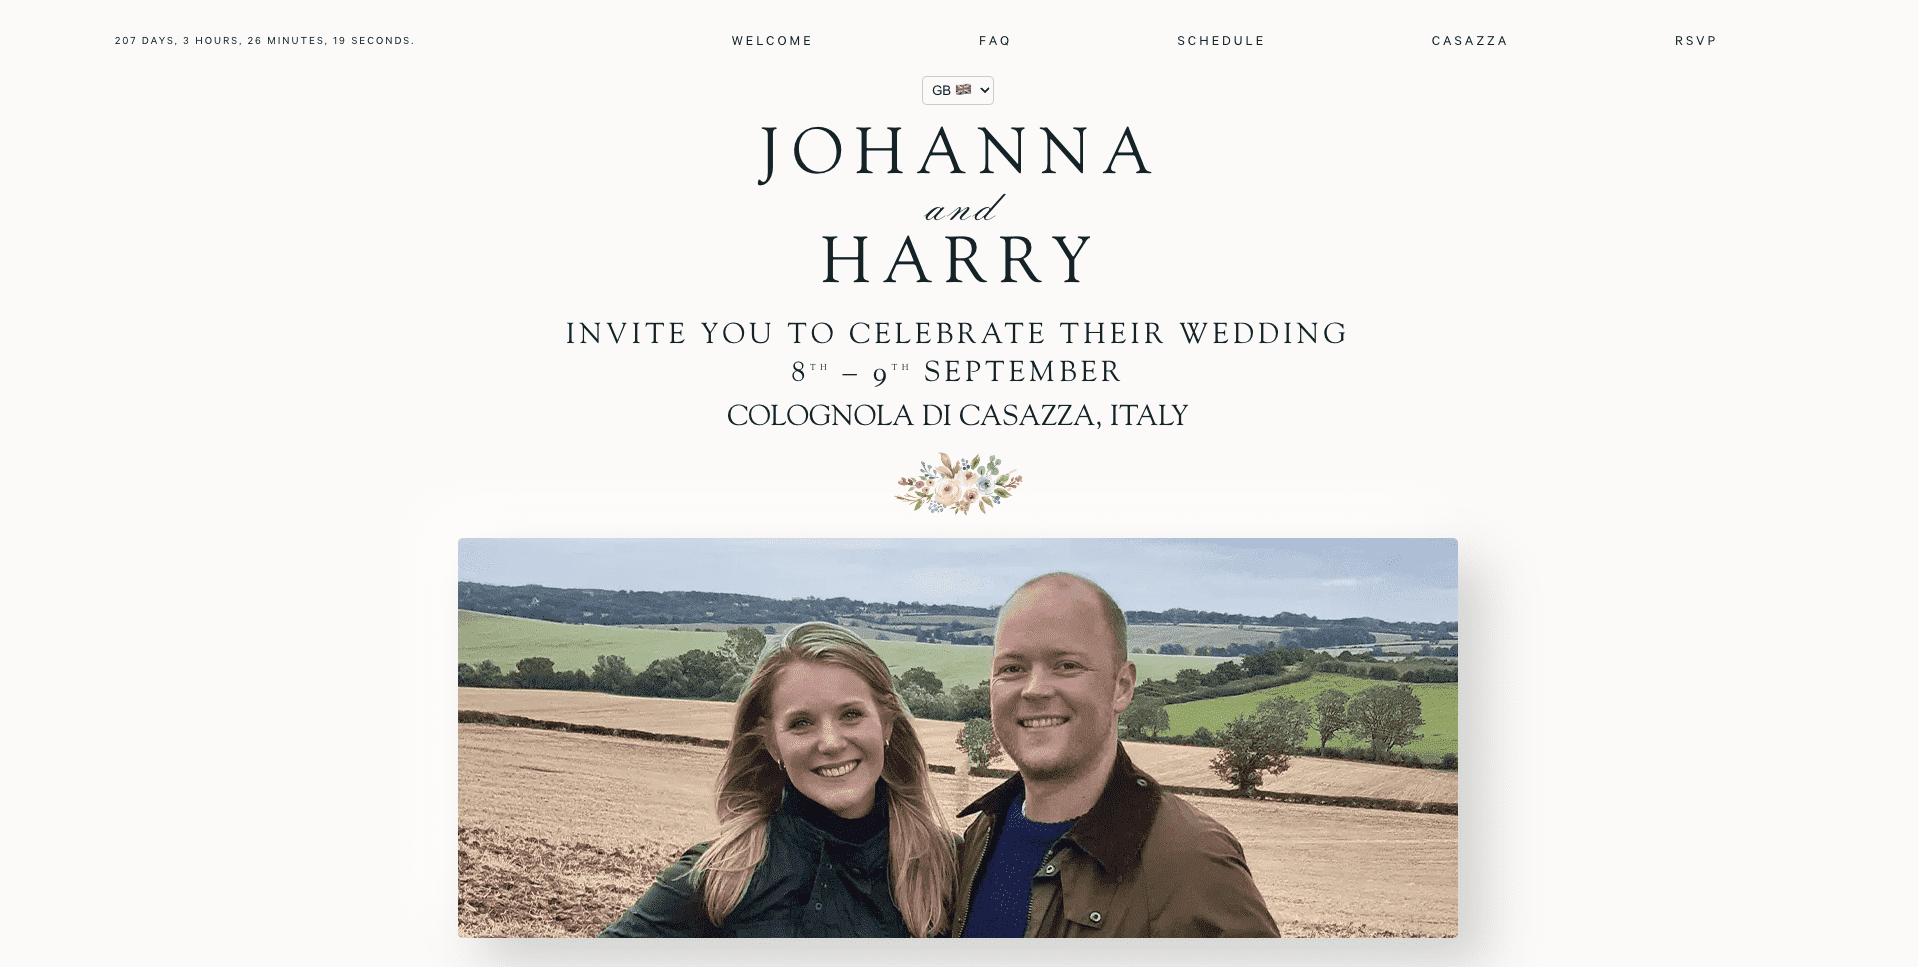
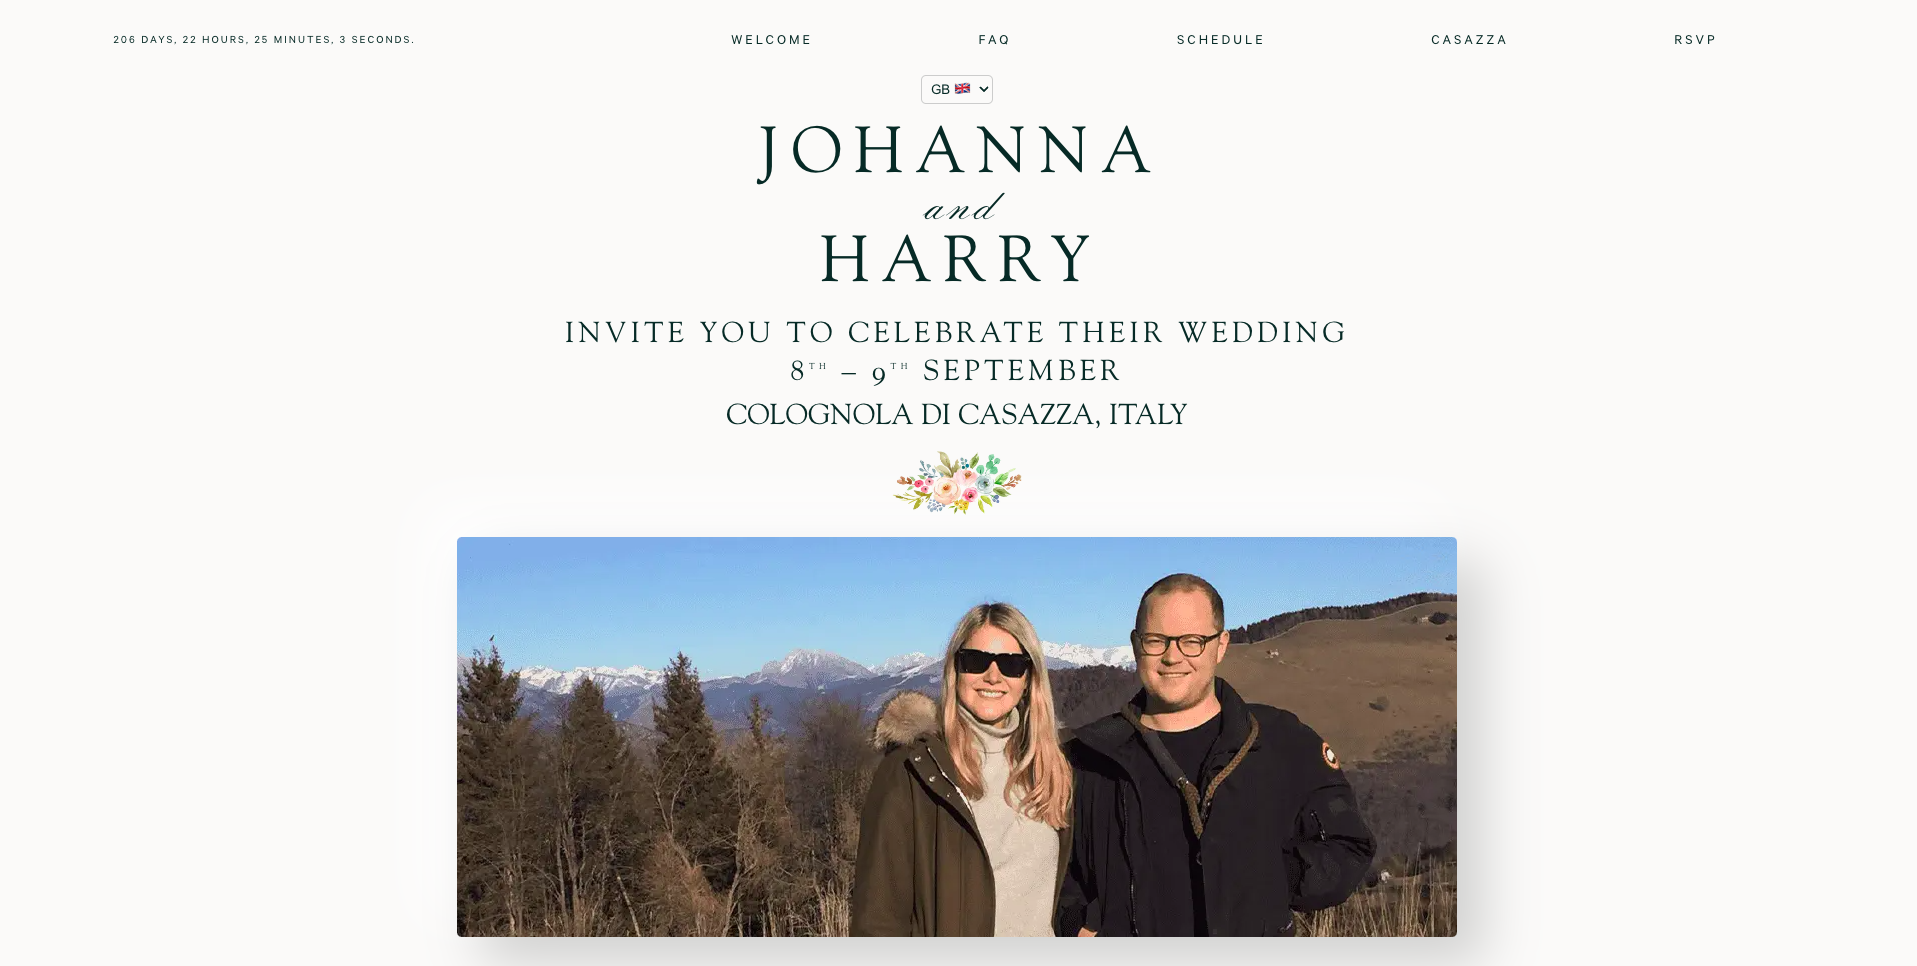
meta updates

diff --git a/pages/index.js b/pages/index.js
@@ -105,7 +105,7 @@ export default function Home({ hasReadPermission }) {
           />
           <meta
             property='og:image'
-            content='https://user-images.githubusercontent.com/82885837/218713112-da03d8d2-8dc9-4fc6-ba40-e3282b0def1d.png'
+            content='https://user-images.githubusercontent.com/82885837/218784681-a7a77705-9c34-430a-b812-1901cbc6409c.png'
           />
 
           <meta property='twitter:card' content='summary_large_image' />
@@ -117,7 +117,7 @@ export default function Home({ hasReadPermission }) {
           />
           <meta
             property='twitter:image'
-            content='https://user-images.githubusercontent.com/82885837/218713112-da03d8d2-8dc9-4fc6-ba40-e3282b0def1d.png'></meta>
+            content='https://user-images.githubusercontent.com/82885837/218784681-a7a77705-9c34-430a-b812-1901cbc6409c.png'></meta>
         </Head>
 
         <select value={locale} onChange={handleLanguageToggle}>
@@ -144,6 +144,13 @@ export default function Home({ hasReadPermission }) {
           <Image src={flowersMain} alt='flowersMain' width='130' priority />
         </div>
         <div ref={sliderRef} className='keen-slider'>
+          <Image
+            src={mountain}
+            alt='mountain'
+            className='keen-slider__slide number-slidex'
+            height={400}
+            width={1000}
+          />
           <Image
             src={walks2}
             alt='walks2'
